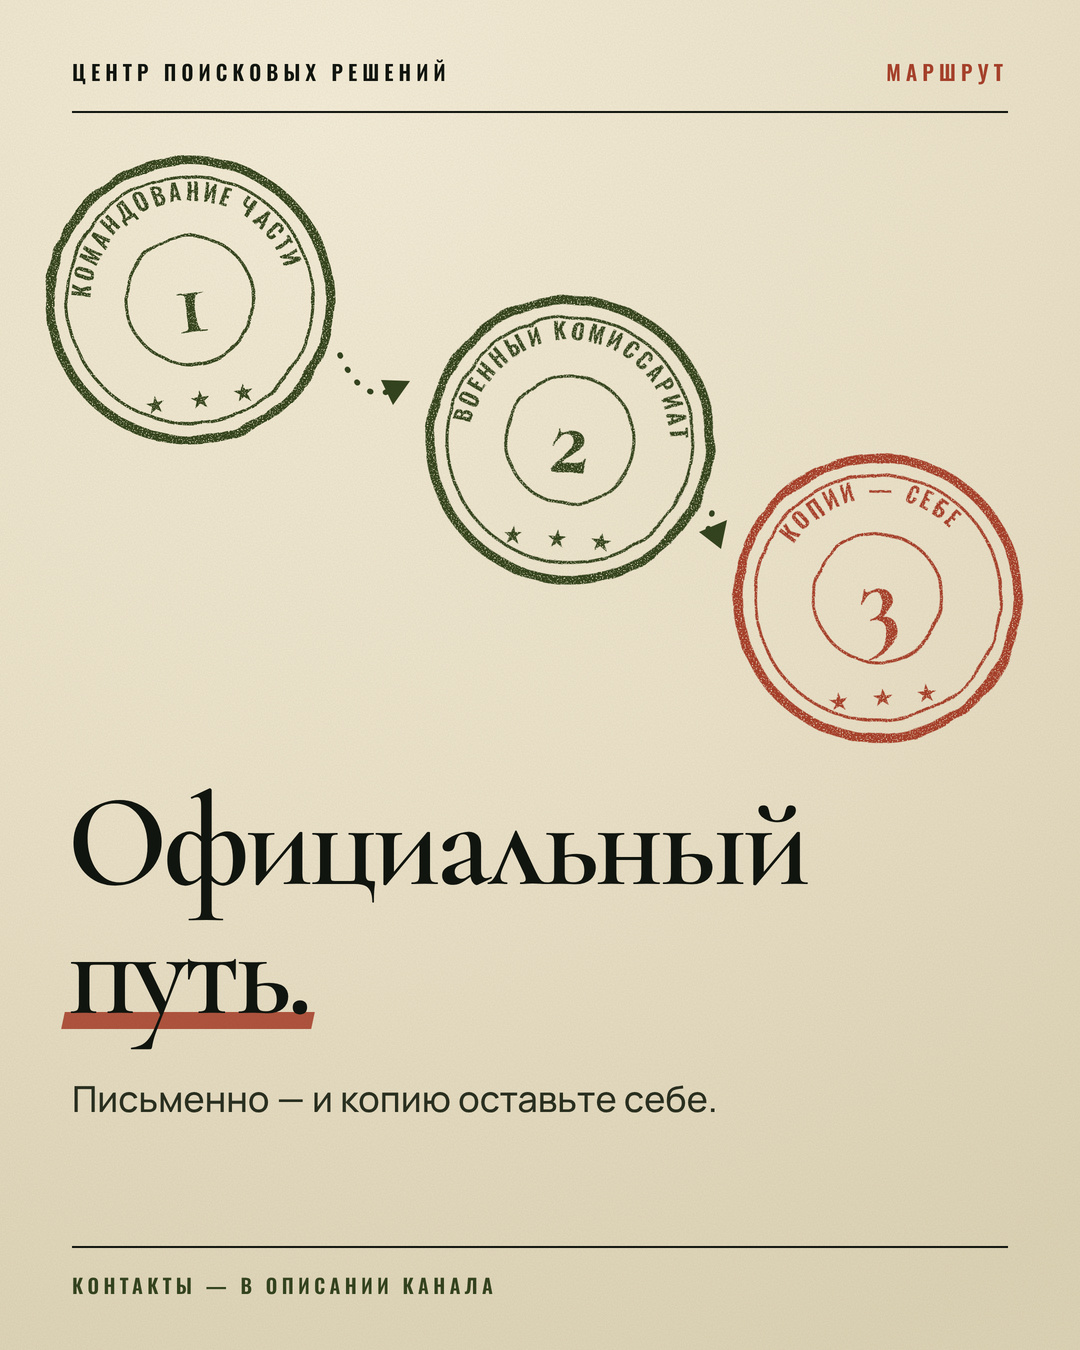
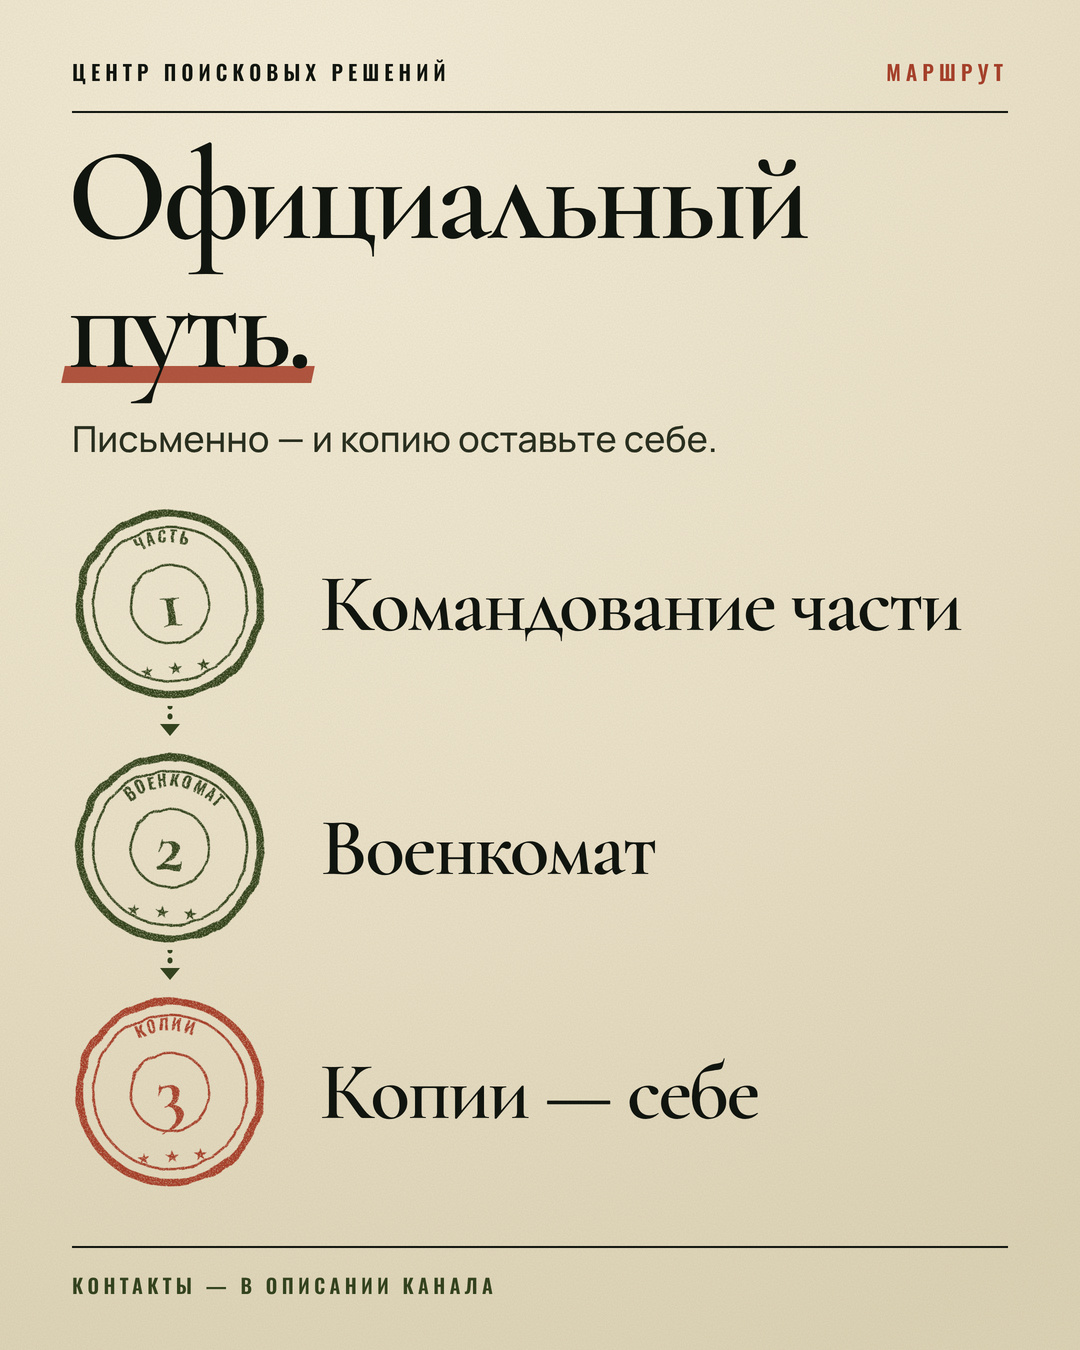
Route post v3: headline on top, three big rows with stamp markers
Claude-Session: https://claude.ai/code/session_01NuJDMPrCwZ36H1xaabvcxP

Changed region(s): [[0.0306, 0.0933, 0.9472, 0.56], [0.0611, 0.3733, 0.7639, 0.9022], [0.275, 0.7778, 0.7028, 0.84]]

diff --git a/psr-promo/src/paper_route.html b/psr-promo/src/paper_route.html
@@ -15,10 +15,16 @@ h1 u:after{content:"";position:absolute;left:-4px;right:-4px;bottom:8px;height:1
 .tex{position:absolute;inset:0;mix-blend-mode:multiply;opacity:.5;pointer-events:none}
 .card{position:absolute;background:var(--card);box-shadow:0 2px 0 rgba(255,255,255,.7) inset,0 26px 60px rgba(70,56,20,.22),0 3px 8px rgba(70,56,20,.16)}
 
-svg.rt{position:absolute;left:0;top:128px;width:1080px;height:680px}
+h1{top:132px}.sub{top:414px}
+.rw{position:absolute;left:72px;right:72px;height:200px;display:flex;align-items:center;gap:52px}
+.sp{flex:none;width:196px;height:196px}
+.rt{font:600 82px/1 'Cormorant Garamond',serif;letter-spacing:-.03em;color:var(--ink);white-space:nowrap}
+.rw:nth-of-type(1) .rt{color:var(--ink)}
+.ar{position:absolute;left:157px}
+.line{position:absolute;left:72px;right:72px;height:2.5px;background:var(--ink)}
 </style></head><body><div class="post" id="post">
 <div class="top"><span>ЦЕНТР ПОИСКОВЫХ РЕШЕНИЙ</span><span>МАРШРУТ</span></div>
-<svg class="rt" viewBox="0 0 1080 680"><defs><filter id="st" x="-10%" y="-10%" width="120%" height="120%"><feTurbulence type="fractalNoise" baseFrequency=".035" numOctaves="2" seed="2" result="w"/><feDisplacementMap in="SourceGraphic" in2="w" scale="5" result="d"/><feTurbulence type="fractalNoise" baseFrequency=".8" numOctaves="2" seed="9" result="n"/><feColorMatrix in="n" type="matrix" values="0 0 0 0 0  0 0 0 0 0  0 0 0 0 0  0 0 0 -9 6.4" result="m"/><feComposite in="d" in2="m" operator="in"/></filter><path id="c1" d="M0 0m-100 0a100 100 0 1 1 200 0"/></defs><path d="M340 227Q362 276 392 262" fill="none" stroke="#34441f" stroke-width="5.5" stroke-dasharray="1 15" stroke-linecap="round"/><path d="M410 253L393 277L381 252Z" fill="#34441f"/><path d="M712 385Q702 423 714 408" fill="none" stroke="#34441f" stroke-width="5.5" stroke-dasharray="1 15" stroke-linecap="round"/><path d="M727 392L721 421L699 404Z" fill="#34441f"/><g filter="url(#st)"><g transform="translate(190 172) rotate(-8)" fill="none" stroke="#34441f"><circle r="140" stroke-width="9"/><circle r="123" stroke-width="3"/><circle r="64" stroke-width="3"/><text font-family="Oswald" font-weight="600" font-size="23" letter-spacing="3" fill="#34441f" stroke="none" text-anchor="middle"><textPath href="#c1" startOffset="50%">КОМАНДОВАНИЕ ЧАСТИ</textPath></text><text y="32" text-anchor="middle" font-family="Cormorant Garamond" font-weight="700" font-size="104" fill="#34441f" stroke="none">1</text><text y="108" text-anchor="middle" font-family="Oswald" font-size="22" letter-spacing="8" fill="#34441f" stroke="none">★ ★ ★</text></g><g transform="translate(570 312) rotate(5)" fill="none" stroke="#34441f"><circle r="140" stroke-width="9"/><circle r="123" stroke-width="3"/><circle r="64" stroke-width="3"/><text font-family="Oswald" font-weight="600" font-size="23" letter-spacing="3" fill="#34441f" stroke="none" text-anchor="middle"><textPath href="#c1" startOffset="50%">ВОЕННЫЙ КОМИССАРИАТ</textPath></text><text y="32" text-anchor="middle" font-family="Cormorant Garamond" font-weight="700" font-size="104" fill="#34441f" stroke="none">2</text><text y="108" text-anchor="middle" font-family="Oswald" font-size="22" letter-spacing="8" fill="#34441f" stroke="none">★ ★ ★</text></g><g transform="translate(878 470) rotate(-5)" fill="none" stroke="#a8412b"><circle r="140" stroke-width="9"/><circle r="123" stroke-width="3"/><circle r="64" stroke-width="3"/><text font-family="Oswald" font-weight="600" font-size="23" letter-spacing="3" fill="#a8412b" stroke="none" text-anchor="middle"><textPath href="#c1" startOffset="50%">КОПИИ — СЕБЕ</textPath></text><text y="32" text-anchor="middle" font-family="Cormorant Garamond" font-weight="700" font-size="104" fill="#a8412b" stroke="none">3</text><text y="108" text-anchor="middle" font-family="Oswald" font-size="22" letter-spacing="8" fill="#a8412b" stroke="none">★ ★ ★</text></g></g></svg>
+<svg width="0" height="0" style="position:absolute"><defs><filter id="st" x="-10%" y="-10%" width="120%" height="120%"><feTurbulence type="fractalNoise" baseFrequency=".035" numOctaves="2" seed="2" result="w"/><feDisplacementMap in="SourceGraphic" in2="w" scale="6" result="d"/><feTurbulence type="fractalNoise" baseFrequency=".8" numOctaves="2" seed="9" result="n"/><feColorMatrix in="n" type="matrix" values="0 0 0 0 0  0 0 0 0 0  0 0 0 0 0  0 0 0 -9 6.4" result="m"/><feComposite in="d" in2="m" operator="in"/></filter><path id="c1" d="M0 0m-100 0a100 100 0 1 1 200 0"/></defs></svg><div class="rw" style="top:504px"><div class="sp" style="transform:rotate(-7deg)"><svg viewBox="-160 -160 320 320" width="196" height="196"><g filter="url(#st)" fill="none" stroke="#34441f"><circle r="148" stroke-width="12"/><circle r="126" stroke-width="4"/><circle r="64" stroke-width="4"/><text font-family="Oswald" font-weight="600" font-size="27" letter-spacing="3" fill="#34441f" stroke="none" text-anchor="middle"><textPath href="#c1" startOffset="50%">ЧАСТЬ</textPath></text><text y="36" text-anchor="middle" font-family="Cormorant Garamond" font-weight="700" font-size="118" fill="#34441f" stroke="none">1</text><text y="114" text-anchor="middle" font-family="Oswald" font-size="24" letter-spacing="8" fill="#34441f" stroke="none">★ ★ ★</text></g></svg></div><div class="rt">Командование части</div></div><div class="rw" style="top:748px"><div class="sp" style="transform:rotate(5deg)"><svg viewBox="-160 -160 320 320" width="196" height="196"><g filter="url(#st)" fill="none" stroke="#34441f"><circle r="148" stroke-width="12"/><circle r="126" stroke-width="4"/><circle r="64" stroke-width="4"/><text font-family="Oswald" font-weight="600" font-size="27" letter-spacing="3" fill="#34441f" stroke="none" text-anchor="middle"><textPath href="#c1" startOffset="50%">ВОЕНКОМАТ</textPath></text><text y="36" text-anchor="middle" font-family="Cormorant Garamond" font-weight="700" font-size="118" fill="#34441f" stroke="none">2</text><text y="114" text-anchor="middle" font-family="Oswald" font-size="24" letter-spacing="8" fill="#34441f" stroke="none">★ ★ ★</text></g></svg></div><div class="rt">Военкомат</div></div><div class="rw" style="top:992px"><div class="sp" style="transform:rotate(-4deg)"><svg viewBox="-160 -160 320 320" width="196" height="196"><g filter="url(#st)" fill="none" stroke="#a8412b"><circle r="148" stroke-width="12"/><circle r="126" stroke-width="4"/><circle r="64" stroke-width="4"/><text font-family="Oswald" font-weight="600" font-size="27" letter-spacing="3" fill="#a8412b" stroke="none" text-anchor="middle"><textPath href="#c1" startOffset="50%">КОПИИ</textPath></text><text y="36" text-anchor="middle" font-family="Cormorant Garamond" font-weight="700" font-size="118" fill="#a8412b" stroke="none">3</text><text y="114" text-anchor="middle" font-family="Oswald" font-size="24" letter-spacing="8" fill="#a8412b" stroke="none">★ ★ ★</text></g></svg></div><div class="rt">Копии — себе</div></div><svg class="ar" style="top:706px" width="26" height="30" viewBox="0 0 26 30"><path d="M13 0v18" stroke="#34441f" stroke-width="5" stroke-dasharray="1 9" stroke-linecap="round"/><path d="M3 18h20L13 30z" fill="#34441f"/></svg><svg class="ar" style="top:950px" width="26" height="30" viewBox="0 0 26 30"><path d="M13 0v18" stroke="#34441f" stroke-width="5" stroke-dasharray="1 9" stroke-linecap="round"/><path d="M3 18h20L13 30z" fill="#34441f"/></svg>
 <h1><span>Официальный</span><span><u>путь.</u></span></h1>
 <div class="sub">Письменно — и копию оставьте себе.</div>
 <div class="foot">КОНТАКТЫ — В ОПИСАНИИ КАНАЛА</div><svg class="tex" width="1080" height="1350"><filter id="n"><feTurbulence type="fractalNoise" baseFrequency=".75" numOctaves="3" seed="3"/><feColorMatrix values="0 0 0 0 .55  0 0 0 0 .5  0 0 0 0 .4  0 0 0 .5 -.08"/></filter><rect width="100%" height="100%" filter="url(#n)"/></svg></div></body></html>

diff --git a/psr-promo/tools/make_papers.py b/psr-promo/tools/make_papers.py
@@ -60,24 +60,22 @@ page("phone","ПАМЯТКА","""
 <script>let h="",s=11;const r=()=>((s=(s*1664525+1013904223)>>>0)/4294967296);for(let i=0;i<24;i++){const x=150+i*11.4,a=20+Math.abs(Math.sin(i*.5))*84*(.45+r()*.7);h+=`<rect x="${x.toFixed(0)}" y="${(170-a/2).toFixed(0)}" width="6.4" height="${a.toFixed(0)}" rx="3.2" fill="#11150f"/>`}document.getElementById("wv").innerHTML=h;</script>''',
 "Следы","в телефоне.","Сохраните, пока ничего не удалилось.")
 
-# 3 — route: three big rubber stamps joined by dashed arrows that stop at the stamp edges
-import math
-R=140
-C=[(190,172,-8,"#34441f","КОМАНДОВАНИЕ ЧАСТИ",1),(570,312,5,"#34441f","ВОЕННЫЙ КОМИССАРИАТ",2),(878,470,-5,"#a8412b","КОПИИ — СЕБЕ",3)]
-def stamp(x,y,rot,col,txt,num):
-    return f'''<g transform="translate({x} {y}) rotate({rot})" fill="none" stroke="{col}"><circle r="{R}" stroke-width="9"/><circle r="{R-17}" stroke-width="3"/><circle r="64" stroke-width="3"/><text font-family="Oswald" font-weight="600" font-size="23" letter-spacing="3" fill="{col}" stroke="none" text-anchor="middle"><textPath href="#c1" startOffset="50%">{txt}</textPath></text><text y="32" text-anchor="middle" font-family="Cormorant Garamond" font-weight="700" font-size="104" fill="{col}" stroke="none">{num}</text><text y="108" text-anchor="middle" font-family="Oswald" font-size="22" letter-spacing="8" fill="{col}" stroke="none">★ ★ ★</text></g>'''
-def arrow(a,b):
-    (x1,y1),(x2,y2)=a[:2],b[:2]; d=math.hypot(x2-x1,y2-y1); ux,uy=(x2-x1)/d,(y2-y1)/d
-    sx,sy=x1+ux*(R+20),y1+uy*(R+20); ex,ey=x2-ux*(R+30),y2-uy*(R+30)
-    mx,my=(sx+ex)/2-uy*38,(sy+ey)/2+ux*38
-    tx,ty=ex-mx,ey-my; tl=math.hypot(tx,ty); tx,ty=tx/tl,ty/tl
-    p1=(ex-tx*26-ty*14,ey-ty*26+tx*14); p2=(ex-tx*26+ty*14,ey-ty*26-tx*14)
-    return f'<path d="M{sx:.0f} {sy:.0f}Q{mx:.0f} {my:.0f} {ex-tx*20:.0f} {ey-ty*20:.0f}" fill="none" stroke="#34441f" stroke-width="5.5" stroke-dasharray="1 15" stroke-linecap="round"/><path d="M{ex:.0f} {ey:.0f}L{p1[0]:.0f} {p1[1]:.0f}L{p2[0]:.0f} {p2[1]:.0f}Z" fill="#34441f"/>'
-ROUTE=''.join(arrow(C[i],C[i+1]) for i in range(2))+'<g filter="url(#st)">'+''.join(stamp(*c) for c in C)+'</g>'
+# 3 — route (v3): headline on top, three big rows, each with a rubber stamp as the marker
+def stamp3(col,num,txt):
+    return f'''<svg viewBox="-160 -160 320 320" width="196" height="196"><g filter="url(#st)" fill="none" stroke="{col}"><circle r="148" stroke-width="12"/><circle r="126" stroke-width="4"/><circle r="64" stroke-width="4"/><text font-family="Oswald" font-weight="600" font-size="27" letter-spacing="3" fill="{col}" stroke="none" text-anchor="middle"><textPath href="#c1" startOffset="50%">{txt}</textPath></text><text y="36" text-anchor="middle" font-family="Cormorant Garamond" font-weight="700" font-size="118" fill="{col}" stroke="none">{num}</text><text y="114" text-anchor="middle" font-family="Oswald" font-size="24" letter-spacing="8" fill="{col}" stroke="none">★ ★ ★</text></g></svg>'''
+rows=[("#34441f",1,"ЧАСТЬ","Командование части"),("#34441f",2,"ВОЕНКОМАТ","Военкомат"),("#a8412b",3,"КОПИИ","Копии — себе")]
+ROWS=''.join(f'<div class="rw" style="top:{504+i*244}px"><div class="sp" style="transform:rotate({[-7,5,-4][i]}deg)">{stamp3(c,n,t)}</div><div class="rt">{title}</div></div>' for i,(c,n,t,title) in enumerate(rows))
+ARR=''.join(f'<svg class="ar" style="top:{504+i*244+202}px" width="26" height="30" viewBox="0 0 26 30"><path d="M13 0v18" stroke="#34441f" stroke-width="5" stroke-dasharray="1 9" stroke-linecap="round"/><path d="M3 18h20L13 30z" fill="#34441f"/></svg>' for i in range(2))
 page("route","МАРШРУТ","""
-svg.rt{position:absolute;left:0;top:128px;width:1080px;height:680px}
+h1{top:132px}.sub{top:414px}
+.rw{position:absolute;left:72px;right:72px;height:200px;display:flex;align-items:center;gap:52px}
+.sp{flex:none;width:196px;height:196px}
+.rt{font:600 82px/1 'Cormorant Garamond',serif;letter-spacing:-.03em;color:var(--ink);white-space:nowrap}
+.rw:nth-of-type(1) .rt{color:var(--ink)}
+.ar{position:absolute;left:157px}
+.line{position:absolute;left:72px;right:72px;height:2.5px;background:var(--ink)}
 """,
-'<svg class="rt" viewBox="0 0 1080 680"><defs><filter id="st" x="-10%" y="-10%" width="120%" height="120%"><feTurbulence type="fractalNoise" baseFrequency=".035" numOctaves="2" seed="2" result="w"/><feDisplacementMap in="SourceGraphic" in2="w" scale="5" result="d"/><feTurbulence type="fractalNoise" baseFrequency=".8" numOctaves="2" seed="9" result="n"/><feColorMatrix in="n" type="matrix" values="0 0 0 0 0  0 0 0 0 0  0 0 0 0 0  0 0 0 -9 6.4" result="m"/><feComposite in="d" in2="m" operator="in"/></filter><path id="c1" d="M0 0m-100 0a100 100 0 1 1 200 0"/></defs>'+ROUTE+'</svg>',
+'<svg width="0" height="0" style="position:absolute"><defs><filter id="st" x="-10%" y="-10%" width="120%" height="120%"><feTurbulence type="fractalNoise" baseFrequency=".035" numOctaves="2" seed="2" result="w"/><feDisplacementMap in="SourceGraphic" in2="w" scale="6" result="d"/><feTurbulence type="fractalNoise" baseFrequency=".8" numOctaves="2" seed="9" result="n"/><feColorMatrix in="n" type="matrix" values="0 0 0 0 0  0 0 0 0 0  0 0 0 0 0  0 0 0 -9 6.4" result="m"/><feComposite in="d" in2="m" operator="in"/></filter><path id="c1" d="M0 0m-100 0a100 100 0 1 1 200 0"/></defs></svg>'+ROWS+ARR,
 "Официальный","путь.","Письменно — и копию оставьте себе.")
 
 # 4 — care: a night facade, one lit window
